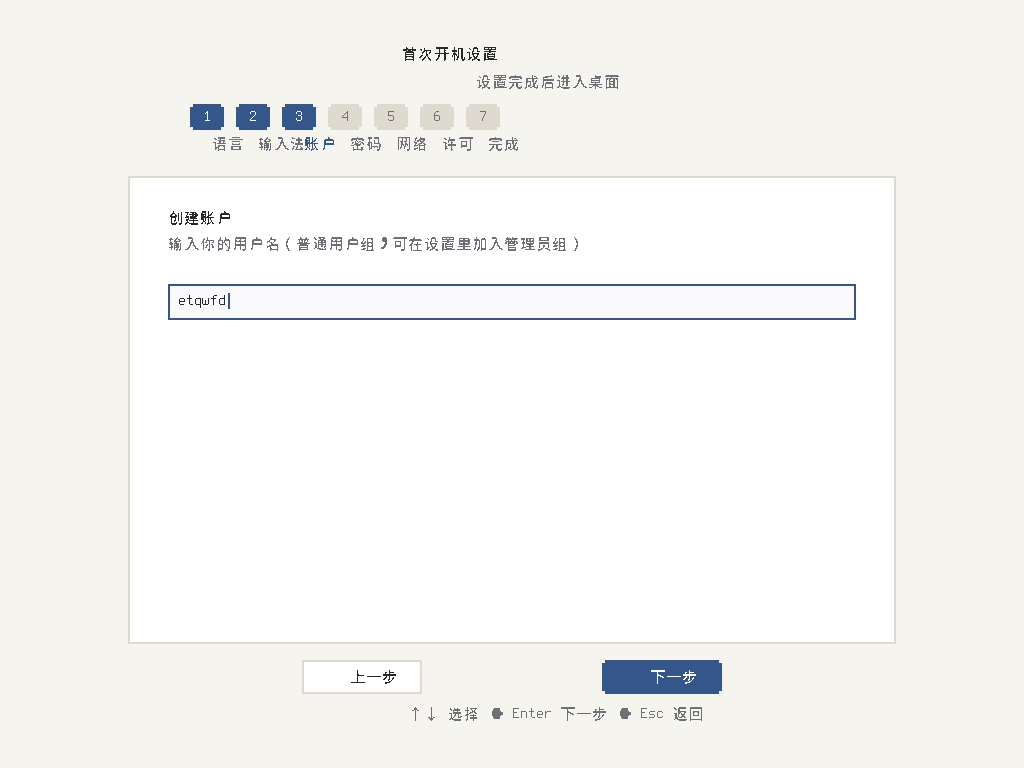
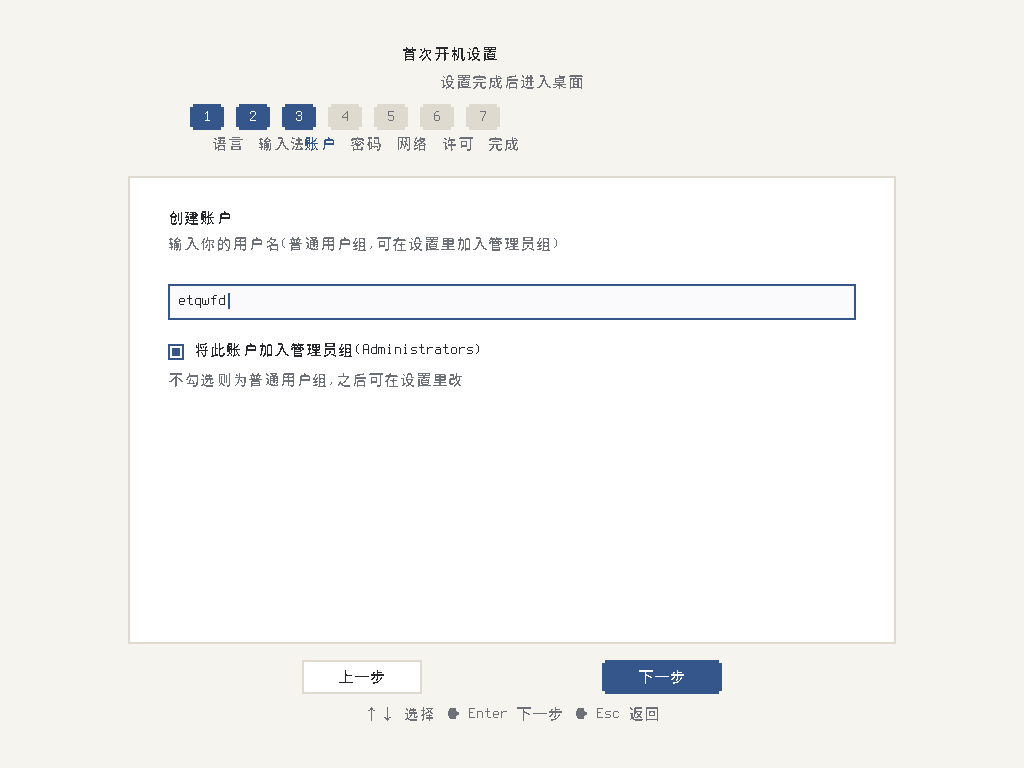
0.9.2: OOBE 许可换行、管理员勾选、无网跳过、全屏完成页轮播；系统文件保护

diff --git a/docs/index.html b/docs/index.html
@@ -55,9 +55,9 @@ footer{margin-top:56px;border-top:1px solid var(--line);padding-top:18px;color:v
 <div class="card"><img class="shot" src="docs/assets/oobe-lang.png" alt="选择语言"><h3>1. 语言</h3><p>48 种，含简体中文与繁體中文，选中后界面文案即时切换。</p></div>
 <div class="card"><img class="shot" src="docs/assets/oobe-ime.png" alt="选择输入法"><h3>2. 输入法</h3><p>可选内置输入法，或从文件添加 .wct 输入法模块。</p></div>
 <div class="card"><img class="shot" src="docs/assets/oobe-s3.png" alt="创建账户"><h3>3. 账户</h3><p>输入用户名，默认普通用户组；管理员组需进系统后在设置里加。</p></div>
-<div class="card"><img class="shot" src="docs/assets/oobe-s5.png" alt="网络"><h3>4. 网络</h3><p>本版本没有无线驱动，这一步只能跳过，接有线请在系统里看 ipconfig。</p></div>
+<div class="card"><img class="shot" src="docs/assets/oobe-s5.png" alt="网络"><h3>4. 网络</h3><p>无可用无线网卡时“下一步”置灰，按空格选“我没有WIFI”即可跳过，接有线可在系统里看 ipconfig。</p></div>
 <div class="card"><img class="shot" src="docs/assets/oobe-s6.png" alt="许可"><h3>5. 许可</h3><p>勾选同意后进入最后一步。</p></div>
-<div class="card"><img class="shot" src="docs/assets/oobe-s7.png" alt="桌面"><h3>6. 完成</h3><p>配置写入 \wct\oobe.cfg，之后启动直接进桌面。</p></div>
+<div class="card"><img class="shot" src="docs/assets/oobe-s7.png" alt="桌面"><h3>6. 完成</h3><p>全屏锁定约 1-2 分钟，轮播诗句，完成后写 \wct\oobe.cfg 并进入桌面。</p></div>
 </div>
 <h2>现在能做的事</h2>
 <div class="grid">
